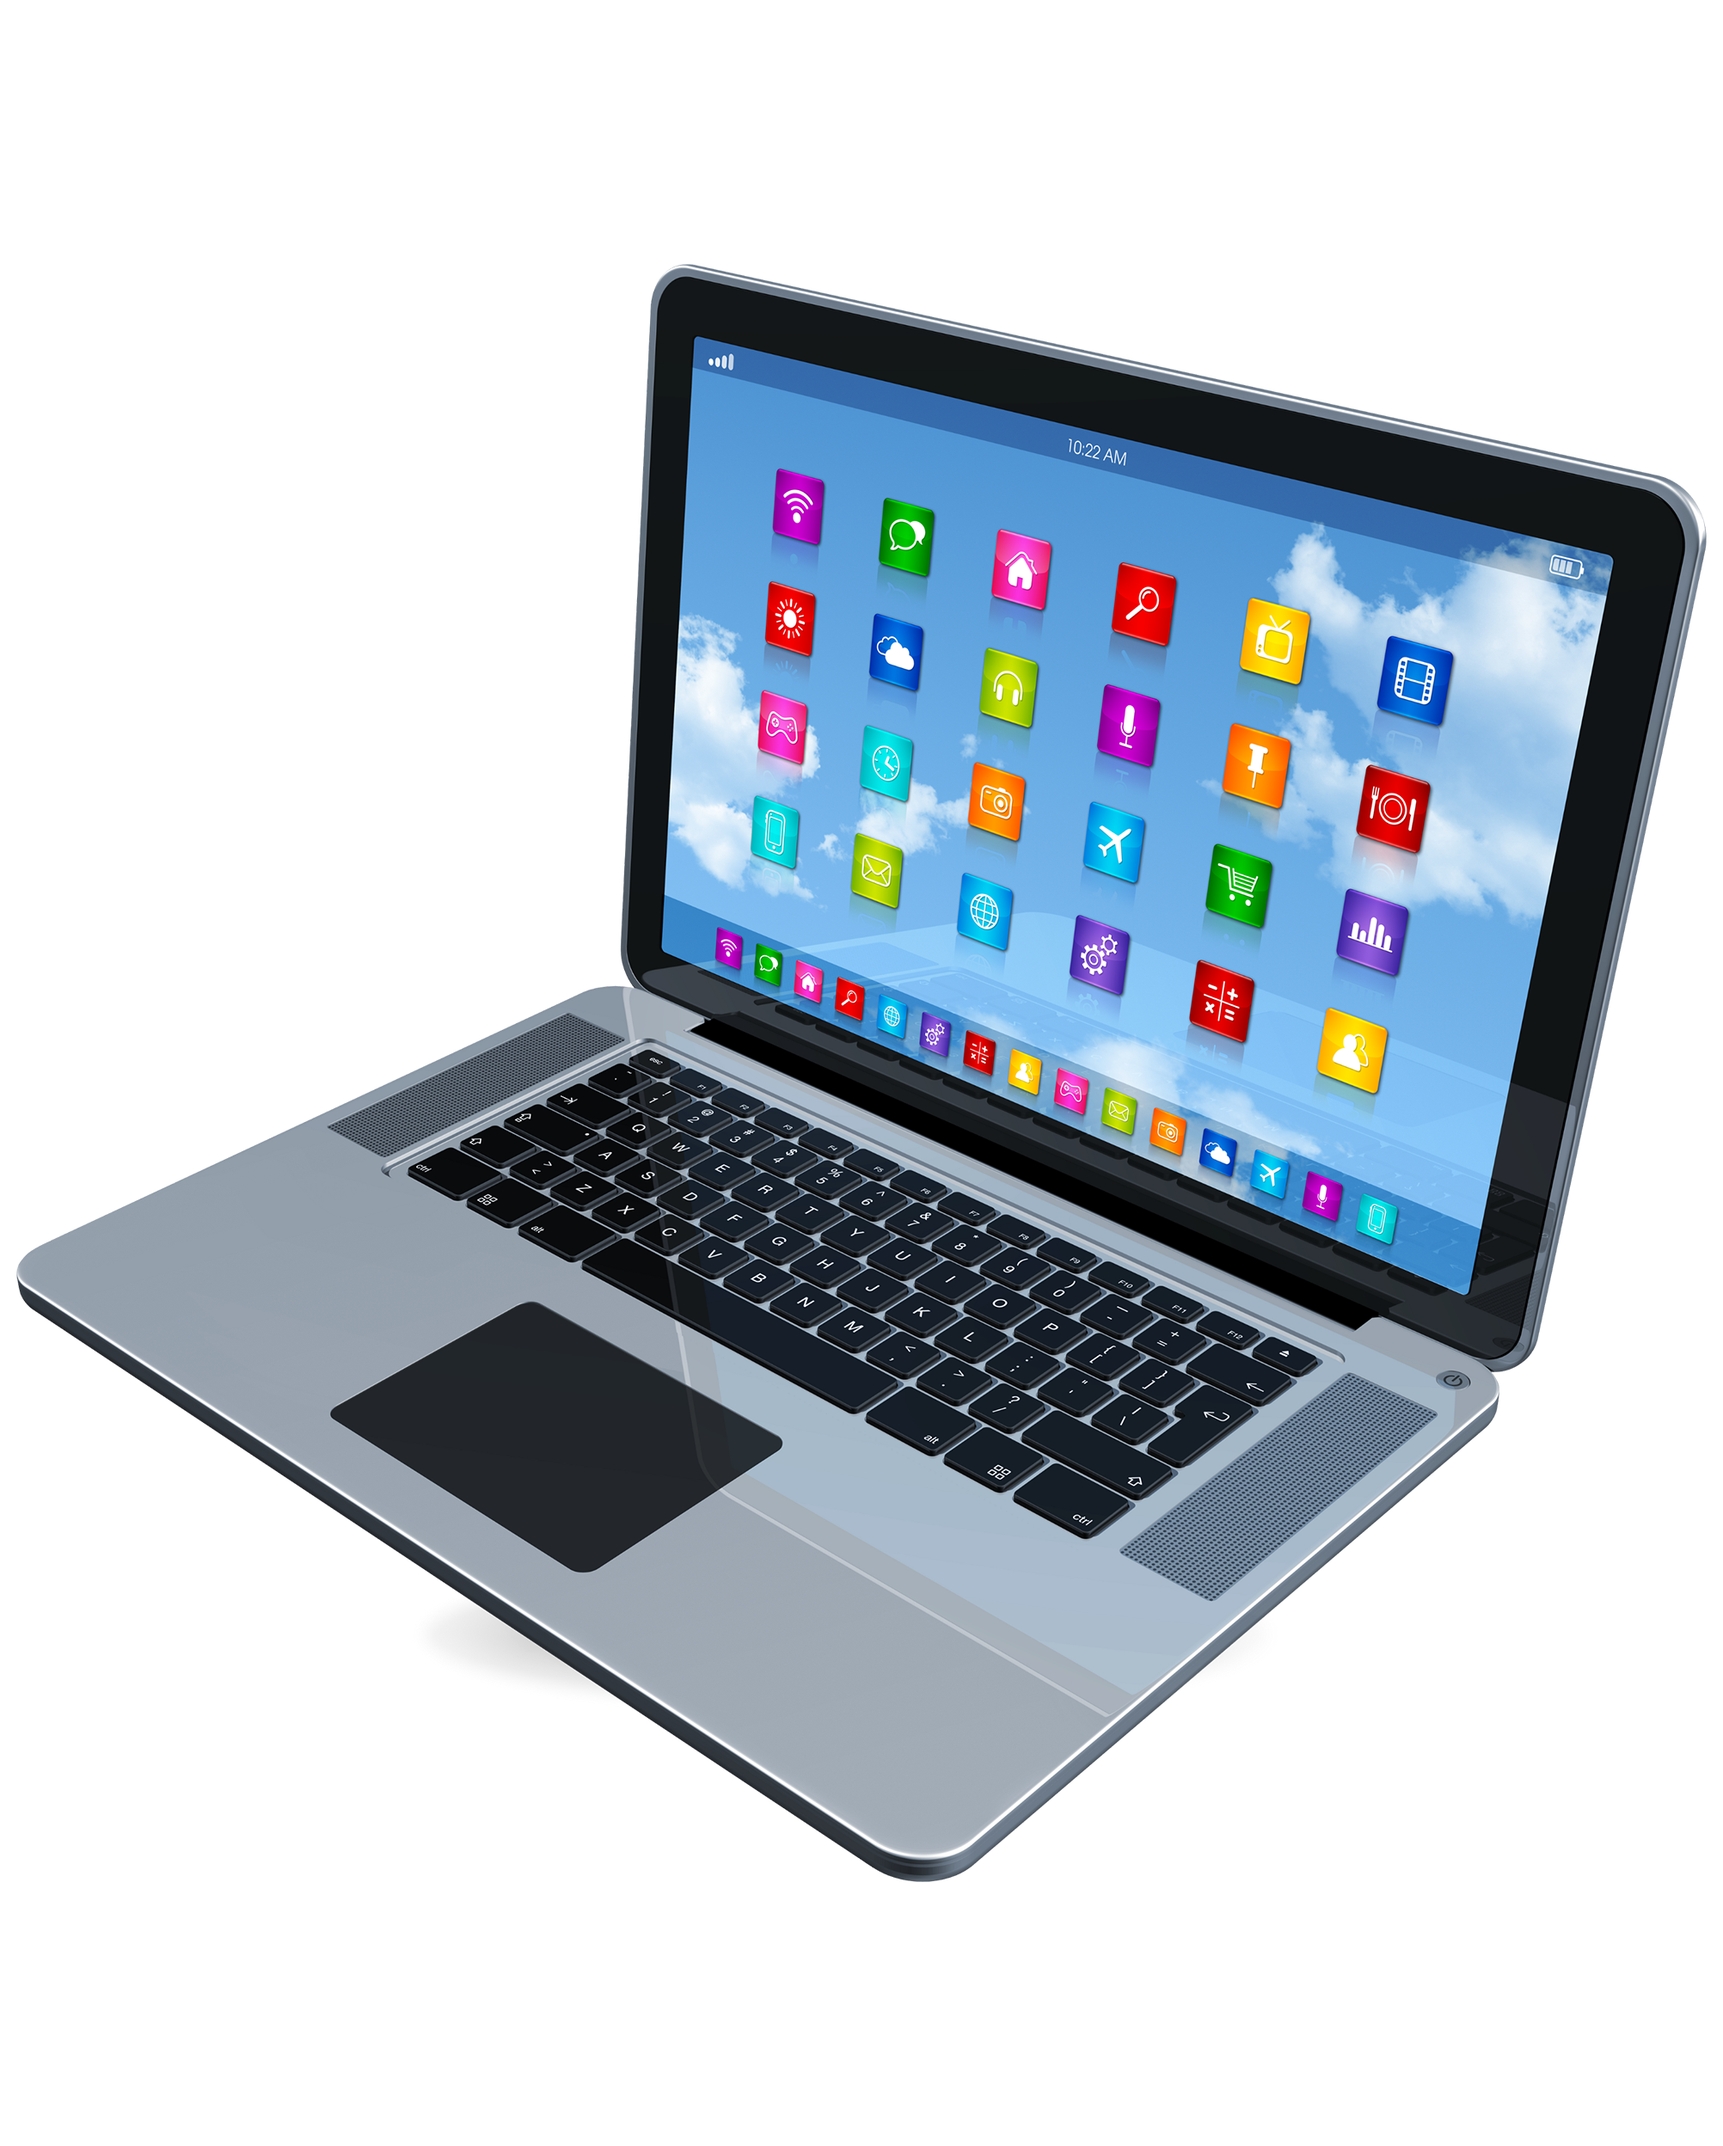
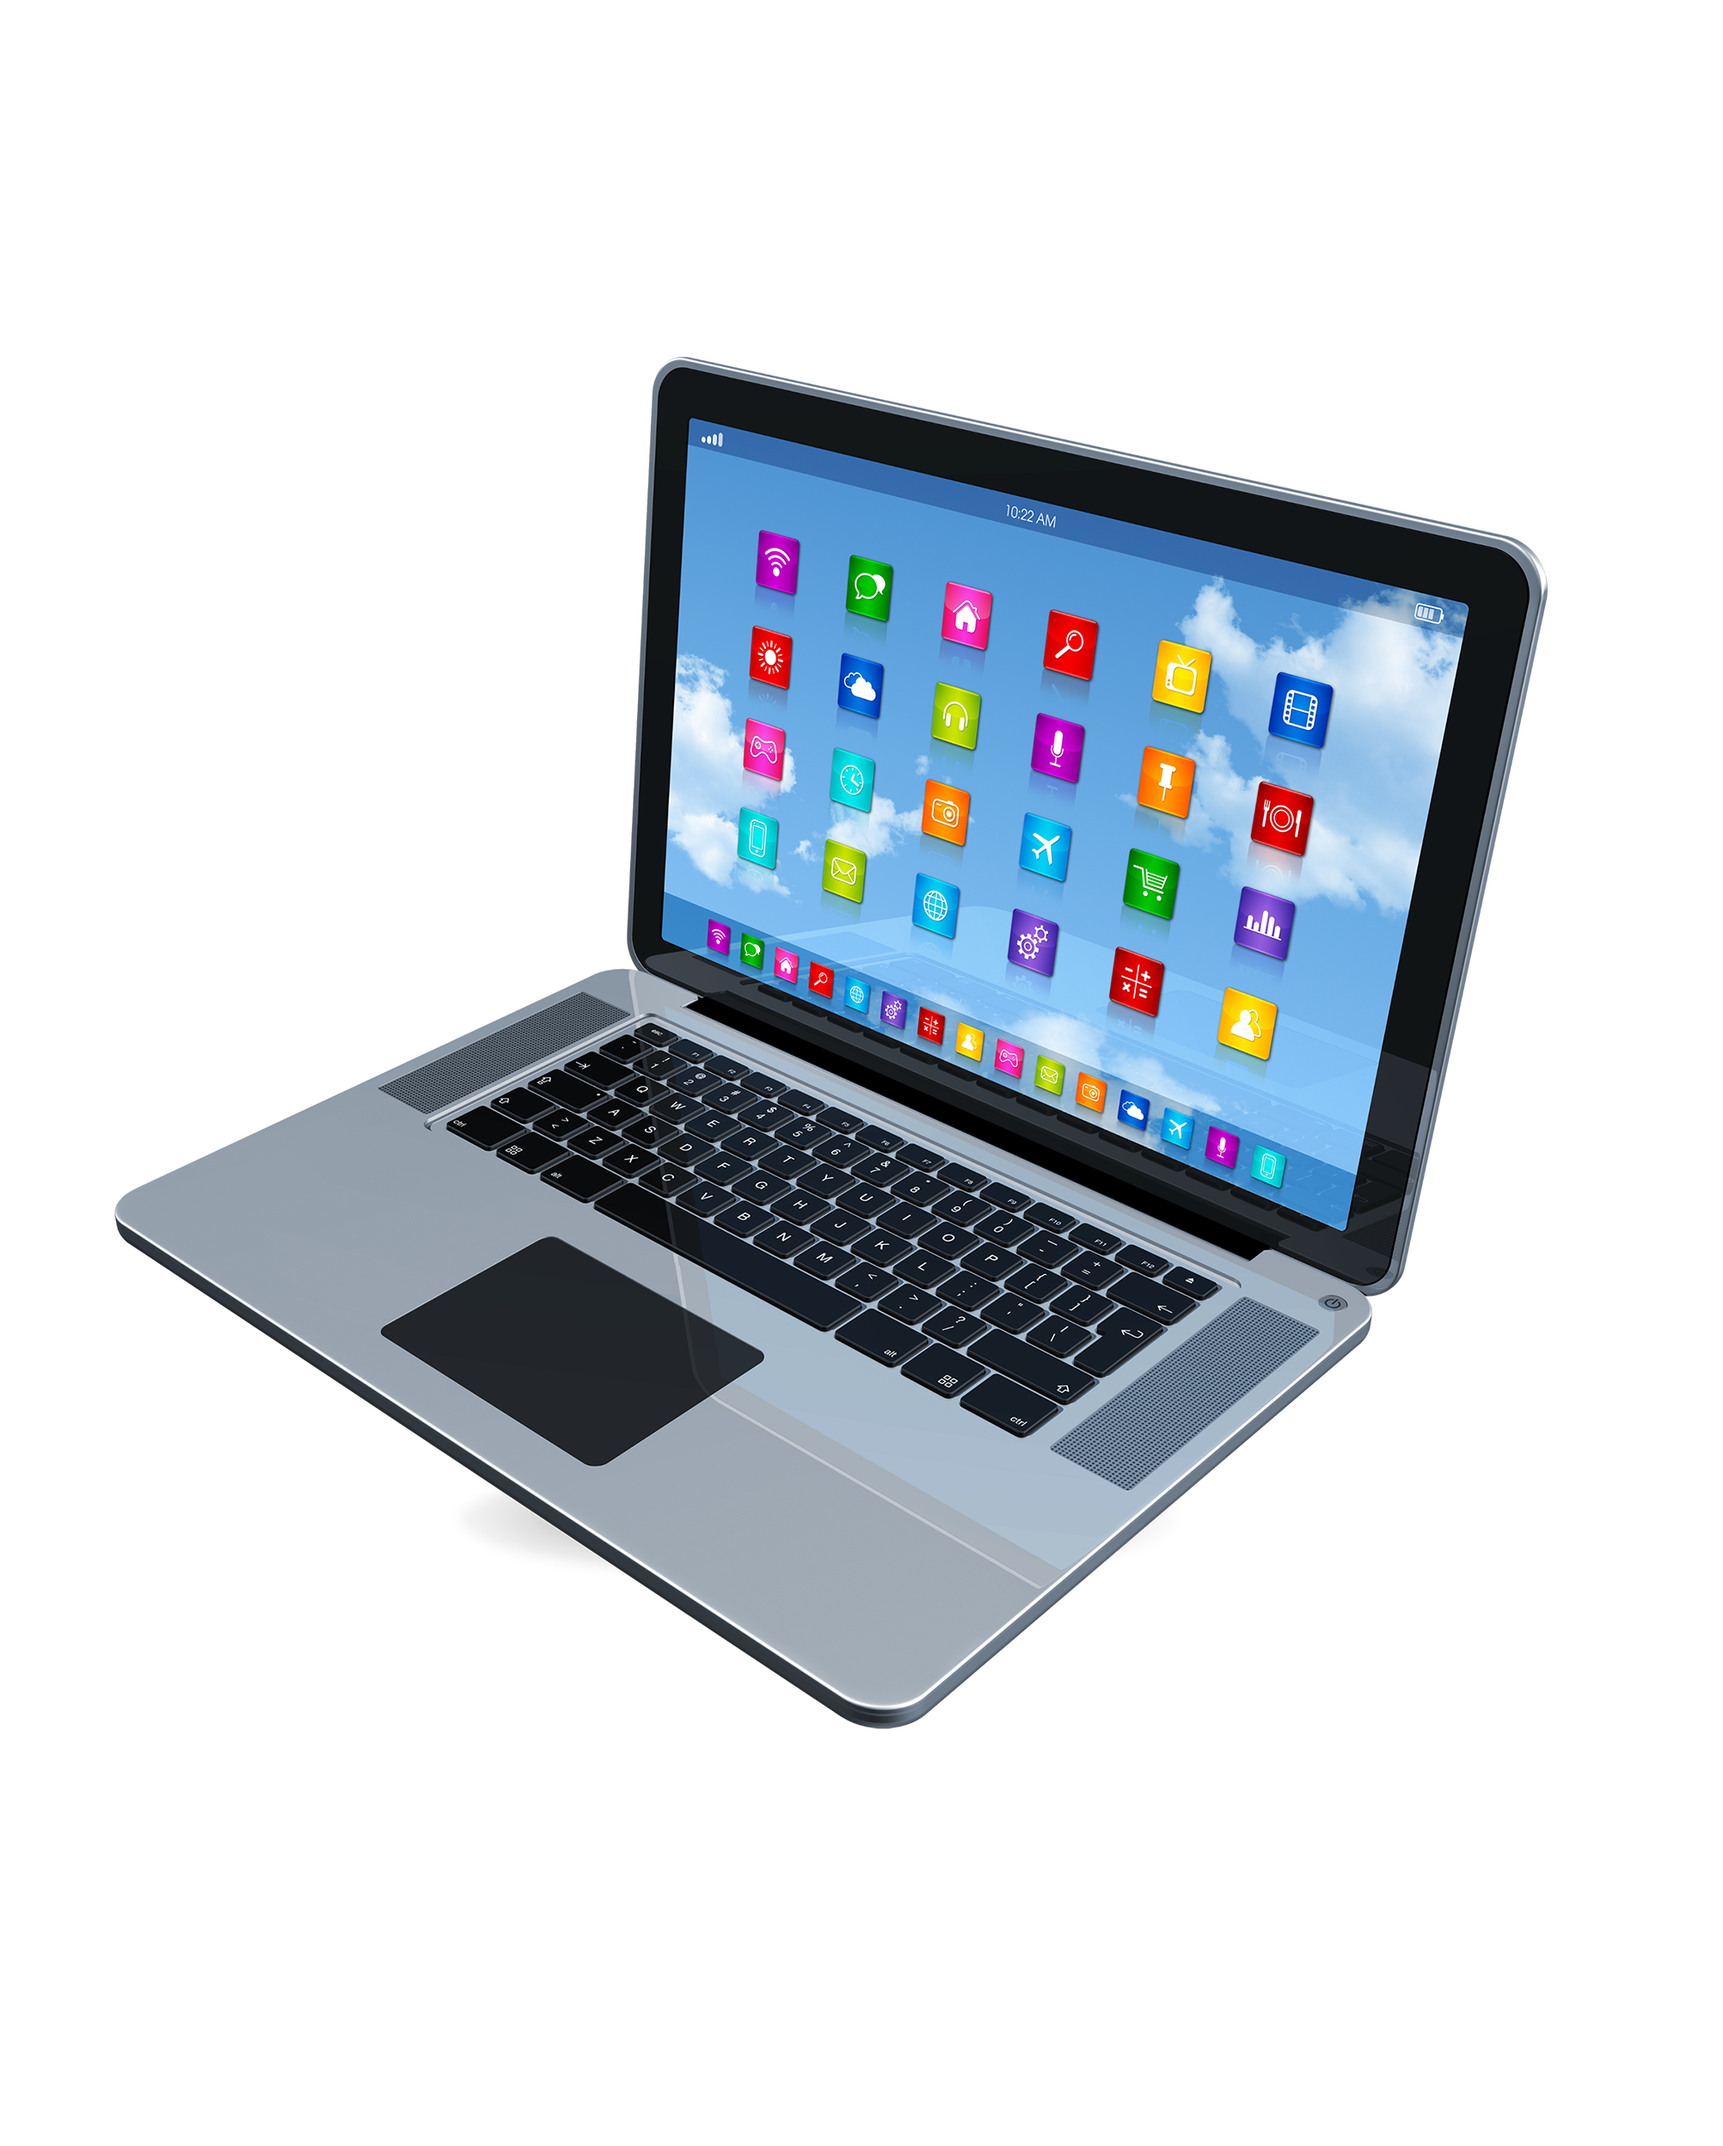
Change HomePage V2

Changed region(s): [[0.0, 0.125, 0.99, 0.875]]

diff --git a/src/components/SectionGridMoreExplore/data.ts b/src/components/SectionGridMoreExplore/data.ts
@@ -18,6 +18,10 @@ import explore6Png from "@/images/collections/explore6.png";
 import explore7Png from "@/images/collections/explore7.png";
 import explore8Png from "@/images/collections/explore8.png";
 import explore9Png from "@/images/collections/explore9.png";
+import explore10Png from "@/images/collections/iphone1.png";
+import explore11Png from "@/images/collections/hero-2.png";
+import explore12Png from "@/images/collections/hero-3.png";
+import explore13Png from "@/images/collections/hero-4.png";
 
 export interface ExploreType {
   id: number;
@@ -32,64 +36,46 @@ export interface ExploreType {
 export const DEMO_MORE_EXPLORE_DATA_2: ExploreType[] = [
   {
     id: 4,
-    name: "Cycling Shorts",
-    desc: "Manufacturar",
-    image: explore9Png,
+    name: "Smartphone",
+    desc: "Electronic",
+    image: explore10Png,
     svgBg: explore9Svg,
     color: "bg-orange-50",
     count: 343,
   },
   {
     id: 5,
-    name: "Cycling Jersey",
-    desc: "Manufacturar",
-    image: explore5Png,
+    name: "Smartwatch",
+    desc: "Electronic",
+    image: explore12Png,
     svgBg: explore5Svg,
     color: "bg-blue-50",
     count: 222,
   },
   {
     id: 6,
-    name: "Car Coat",
-    desc: "Manufacturar",
-    image: explore6Png,
+    name: "Laptop",
+    desc: "Electronic",
+    image: explore11Png,
     svgBg: explore6Svg,
     color: "bg-orange-50",
     count: 155,
   },
   {
     id: 7,
-    name: "Sunglasses",
-    desc: "Manufacturar",
-    image: explore7Png,
+    name: "TV",
+    desc: "Electronic",
+    image: explore13Png,
     svgBg: explore7Svg,
     color: "bg-stone-100",
     count: 98,
-  },
-  {
-    id: 8,
-    name: "kid hats",
-    desc: "Manufacturar",
-    image: explore8Png,
-    svgBg: explore8Svg,
-    color: "bg-blue-50",
-    count: 33,
-  },
-  {
-    id: 9,
-    name: "Wool Jacket",
-    desc: "Manufacturar",
-    image: explore4Png,
-    svgBg: explore4Svg,
-    color: "bg-slate-100/80",
-    count: 122,
   },
 ];
 export const DEMO_MORE_EXPLORE_DATA: ExploreType[] = [
   {
     id: 1,
     name: "Backpack",
-    desc: "Manufacturar",
+    desc: "Electronic",
     image: explore1Png,
     svgBg: explore1Svg,
     color: "bg-indigo-50",
@@ -98,7 +84,7 @@ export const DEMO_MORE_EXPLORE_DATA: ExploreType[] = [
   {
     id: 2,
     name: "Shoes",
-    desc: "Manufacturar",
+    desc: "Electronic",
     image: explore2Png,
     svgBg: explore2Svg,
     color: "bg-slate-100/80",
@@ -107,7 +93,7 @@ export const DEMO_MORE_EXPLORE_DATA: ExploreType[] = [
   {
     id: 3,
     name: "Recycled Blanket",
-    desc: "Manufacturar",
+    desc: "Electronic",
     image: explore3Png,
     svgBg: explore3Svg,
     color: "bg-violet-50",
@@ -116,7 +102,7 @@ export const DEMO_MORE_EXPLORE_DATA: ExploreType[] = [
   {
     id: 4,
     name: "Cycling Shorts",
-    desc: "Manufacturar",
+    desc: "Electronic",
     image: explore9Png,
     svgBg: explore9Svg,
     color: "bg-orange-50",
@@ -125,7 +111,7 @@ export const DEMO_MORE_EXPLORE_DATA: ExploreType[] = [
   {
     id: 5,
     name: "Cycling Jersey",
-    desc: "Manufacturar",
+    desc: "Electronic",
     image: explore5Png,
     svgBg: explore5Svg,
     color: "bg-blue-50",
@@ -134,7 +120,7 @@ export const DEMO_MORE_EXPLORE_DATA: ExploreType[] = [
   {
     id: 6,
     name: "Car Coat",
-    desc: "Manufacturar",
+    desc: "Electronic",
     image: explore6Png,
     svgBg: explore6Svg,
     color: "bg-orange-50",

diff --git a/src/app/page.tsx b/src/app/page.tsx
@@ -5,15 +5,32 @@ import SectionSliderProductCard from "@/components/SectionSliderProductCard";
 import DiscoverMoreSlider from "@/components/DiscoverMoreSlider";
 import SectionClientSay from "@/components/SectionClientSay/SectionClientSay";
 import { PRODUCTS, SPORT_PRODUCTS } from "@/data/data";
+import BackgroundSection from "@/components/BackgroundSection/BackgroundSection";
+import SectionGridMoreExplore from "@/components/SectionGridMoreExplore/SectionGridMoreExplore";
+import { DEMO_MORE_EXPLORE_DATA_2 } from "@/components/SectionGridMoreExplore/data";
+import SectionPromo2 from "@/components/SectionPromo2";
 
 function PageHome() {
   return (
     <div className="nc-PageHome relative overflow-hidden">
-      <div className="container px-4">
+      <div className="container px-4 hidden xl:block">
         <SectionHero2 />
       </div>
 
-      <div className="mt-24 lg:mt-32">
+      <div className="xl:hidden">
+        {/* SECTION */}
+        <SectionPromo2 />
+      </div>
+
+      {/* SECTION */}
+      <div className="container relative space-y-24 my-24 lg:space-y-32 lg:my-32">
+        <div className="relative py-24 lg:py-32">
+            <BackgroundSection />
+            <SectionGridMoreExplore data={DEMO_MORE_EXPLORE_DATA_2} />
+          </div>
+      </div>
+
+      <div className="mt-24 lg:mt-32 xl:hidden">
         <DiscoverMoreSlider />
       </div>
 

diff --git a/src/data/navigation.ts b/src/data/navigation.ts
@@ -33,7 +33,7 @@ export const MEGAMENU_TEMPLATES: NavItemType[] = [
     name: "Other Pages",
     children: [
       { id: ncNanoId(), href: "/checkout", name: "Checkout Page" },
-      { id: ncNanoId(), href: "/search", name: "Search Page" },
+      // { id: ncNanoId(), href: "/search", name: "Search Page" },
       { id: ncNanoId(), href: "/cart", name: "Cart Page" },
       { id: ncNanoId(), href: "/account", name: "Accout Page" },
       { id: ncNanoId(), href: "/account-order", name: "Order Page" },
@@ -48,7 +48,7 @@ export const MEGAMENU_TEMPLATES: NavItemType[] = [
       // { id: ncNanoId(), href: "/blog", name: "Blog Page" },
       // { id: ncNanoId(), href: "/blog-single", name: "Blog Single" },
       { id: ncNanoId(), href: "/about", name: "About Page" },
-      { id: ncNanoId(), href: "/contact", name: "Contact Page" },
+      // { id: ncNanoId(), href: "/contact", name: "Contact Page" },
       { id: ncNanoId(), href: "/login", name: "Login" },
       { id: ncNanoId(), href: "/signup", name: "Signup" },
       { id: ncNanoId(), href: "/forgot-pass", name: "Forgot Password" },

diff --git a/src/components/SectionGridMoreExplore/SectionGridMoreExplore.tsx b/src/components/SectionGridMoreExplore/SectionGridMoreExplore.tsx
@@ -19,8 +19,8 @@ export interface SectionGridMoreExploreProps {
 const SectionGridMoreExplore: FC<SectionGridMoreExploreProps> = ({
   className = "",
   boxCard = "box4",
-  gridClassName = "grid-cols-1 md:grid-cols-2 xl:grid-cols-3",
-  data = DEMO_MORE_EXPLORE_DATA.filter((_, i) => i < 6),
+  gridClassName = "grid-cols-1 md:grid-cols-2 xl:grid-cols-4",
+  data = DEMO_MORE_EXPLORE_DATA.filter((_, i) => i < 4),
 }) => {
   const [tabActive, setTabActive] = useState("Man");
 
@@ -76,7 +76,7 @@ const SectionGridMoreExplore: FC<SectionGridMoreExploreProps> = ({
         >
           Start exploring.
         </Heading>
-        <Nav
+        {/* <Nav
           className="p-1 bg-white dark:bg-neutral-800 rounded-full shadow-lg overflow-x-auto hiddenScrollbar"
           containerClassName="mb-12 lg:mb-14 relative flex justify-center w-full text-sm md:text-base"
         >
@@ -152,7 +152,7 @@ const SectionGridMoreExplore: FC<SectionGridMoreExploreProps> = ({
               </div>
             </NavItem2>
           ))}
-        </Nav>
+        </Nav> */}
       </div>
     );
   };

diff --git a/src/app/blog-single99231/page.tsx b/src/app/blog-single99231/page.tsx
@@ -255,7 +255,7 @@ const BlogSingle = () => {
         key={index}
         className="relative aspect-w-3 aspect-h-4 rounded-3xl overflow-hidden group"
       >
-        <Link href={"/blog-single"} />
+        <Link href={"/blog-single99231"} />
         <Image
           alt="Related"
           fill
@@ -280,7 +280,7 @@ const BlogSingle = () => {
             <span className="font-normal truncate">May 20, 2021</span>
           </div>
         </div>
-        <Link href={"/blog-single"} />
+        <Link href={"/blog-single99231"} />
       </div>
     );
   };

diff --git a/src/components/CardCategories/CardCategory4.tsx b/src/components/CardCategories/CardCategory4.tsx
@@ -57,7 +57,7 @@ const CardCategory4: FC<CardCategory4Props> = ({
           </div>
 
           <Link
-            href={"/collection"}
+            href={"/not-found"}
             className="flex items-center text-sm font-medium group-hover:text-primary-500 transition-colors"
           >
             <span>See Collection</span>
@@ -66,7 +66,7 @@ const CardCategory4: FC<CardCategory4Props> = ({
         </div>
       </div>
 
-      <Link href={"/collection"}></Link>
+      <Link href={"/not-found"}></Link>
     </div>
   );
 };

diff --git a/src/app/not-found.tsx b/src/app/not-found.tsx
@@ -10,7 +10,7 @@ const Page404 = () => (
       <header className="text-center max-w-2xl mx-auto space-y-2">
         <NcImage src={I404Png} alt="not-found" />
         <span className="block text-sm text-neutral-800 sm:text-base dark:text-neutral-200 tracking-wider font-medium">
-          {`THE PAGE YOU WERE LOOKING FOR DOESN'T EXIST.`}{" "}
+          {`Halaman Yang Anda Akses Masih Dalam Status Pembuatan.`}{" "}
         </span>
         <div className="pt-8">
           <ButtonPrimary href="/">Return Home Page</ButtonPrimary>

diff --git a/src/components/SectionPromo2.tsx b/src/components/SectionPromo2.tsx
@@ -35,7 +35,7 @@ const SectionPromo2: FC<SectionPromo2Props> = ({ className = "lg:pt-10" }) => {
           </span>
           <div className="flex space-x-2 sm:space-x-5 mt-6 sm:mt-12">
             <ButtonPrimary
-              href="/search"
+              href="/collection-2"
               className="dark:bg-slate-200 dark:text-slate-900"
             >
               Discover more

diff --git a/src/components/CollectionCard.tsx b/src/components/CollectionCard.tsx
@@ -74,7 +74,7 @@ const CollectionCard2: FC<CollectionCard2Props> = ({
         </div>
         <Prices className="mt-0.5 sm:mt-1 ml-4" price={price} />
       </div>
-      <Link href={"/product-detail-2"} className="absolute inset-0 "></Link>
+      <Link href={"/product-detail"} className="absolute inset-0 "></Link>
     </div>
   );
 };

diff --git a/src/components/SectionSliderProductCard.tsx b/src/components/SectionSliderProductCard.tsx
@@ -23,7 +23,7 @@ const SectionSliderProductCard: FC<SectionSliderProductCardProps> = ({
   headingFontClassName,
   headingClassName,
   heading,
-  subHeading = "REY backpacks & bags",
+  subHeading = "",
   data = PRODUCTS.filter((_, i) => i < 8 && i > 2),
 }) => {
   const sliderRef = useRef(null);

diff --git a/src/components/CardCategories/CardCategory1.tsx b/src/components/CardCategories/CardCategory1.tsx
@@ -21,7 +21,7 @@ const CardCategory1: FC<CardCategory1Props> = ({
 }) => {
   return (
     <Link
-      href={"/collection"}
+      href={"/not-found"}
       className={`nc-CardCategory1 flex items-center ${className}`}
     >
       <NcImage
